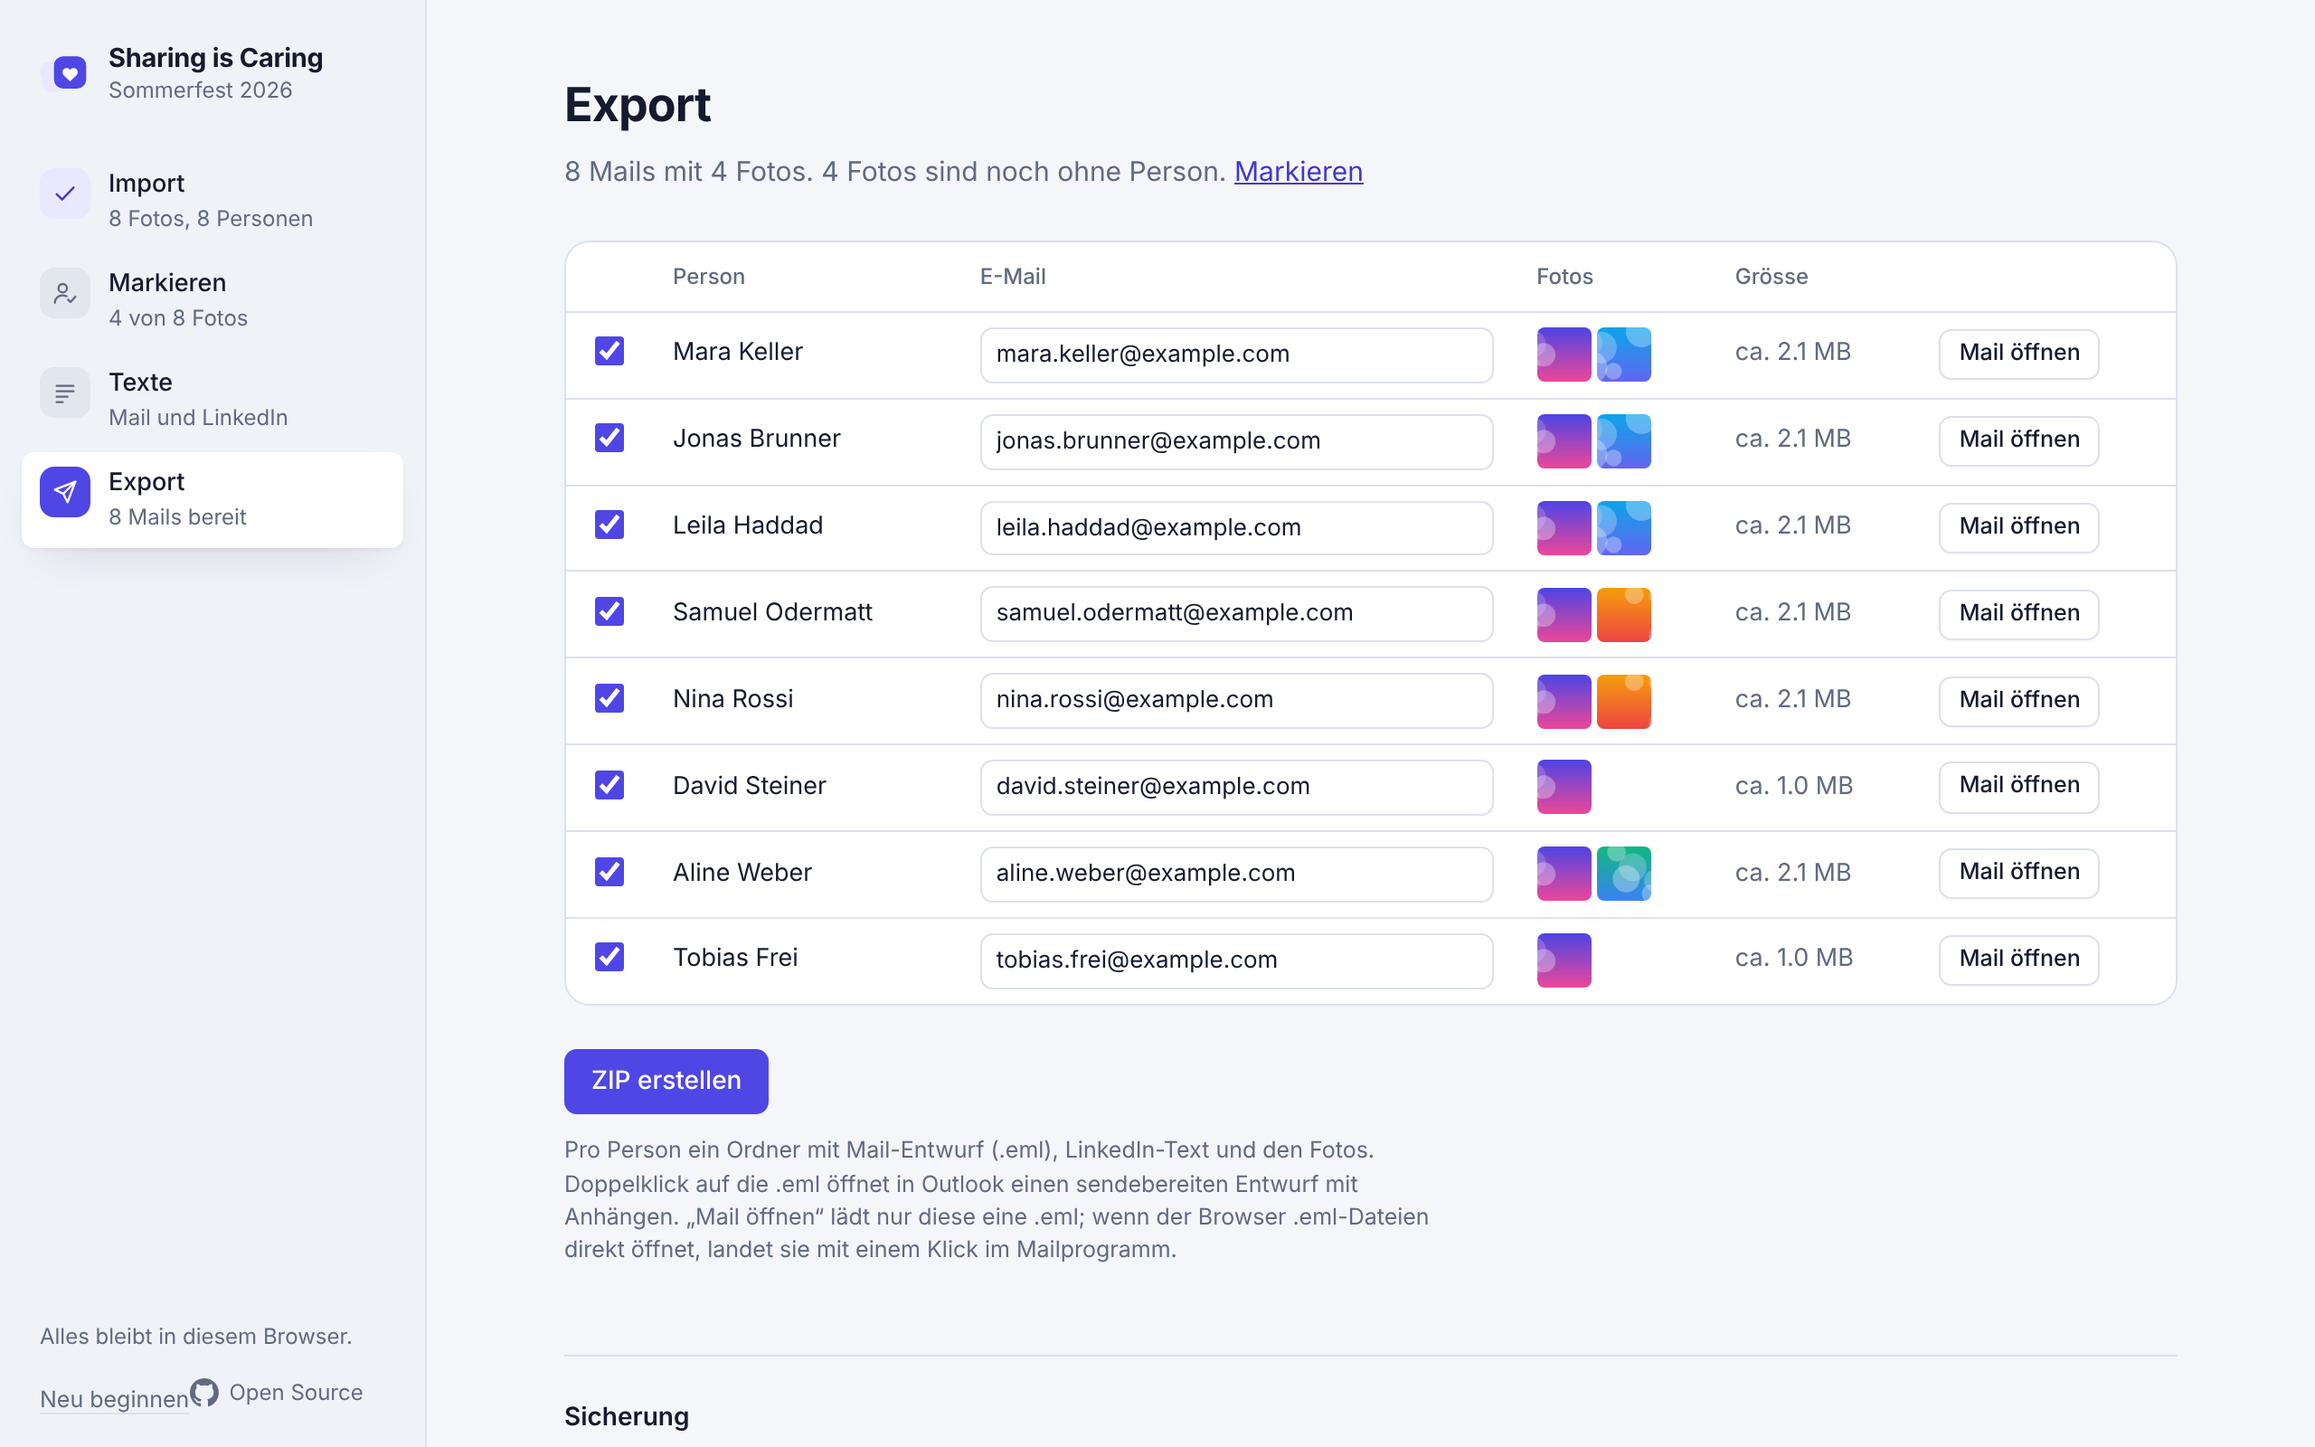
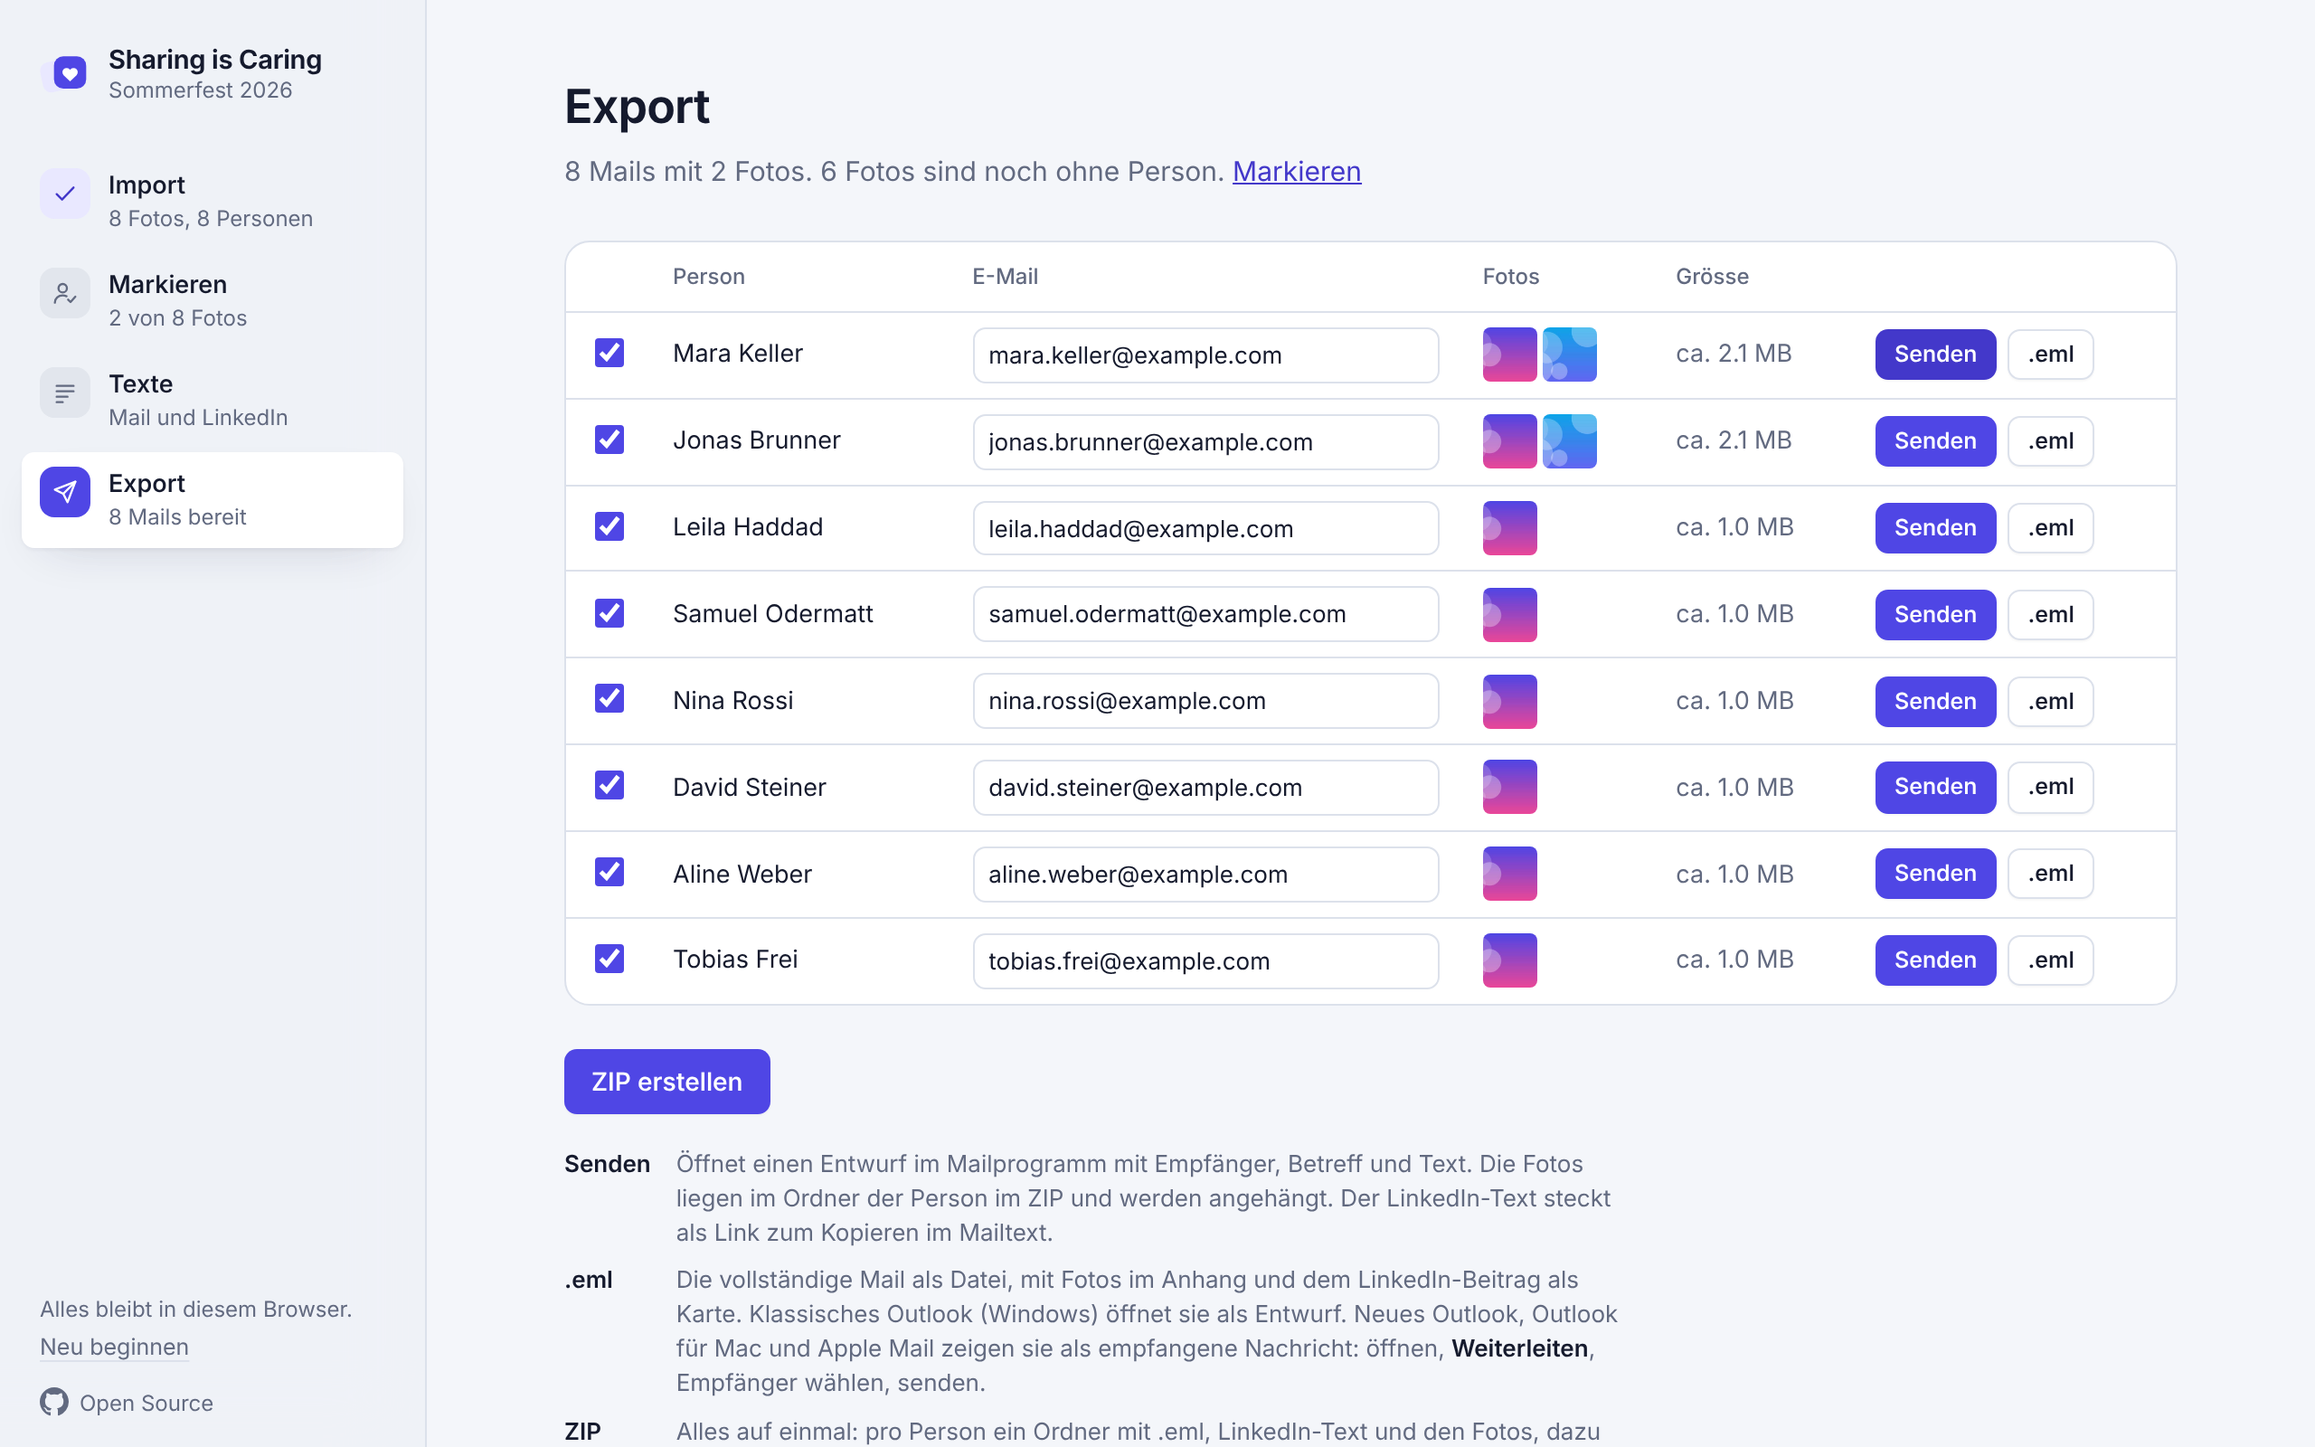
Export: „Senden“ per Share-Sheet oder mailto, .eml ehrlich beschriftet
Opening an .eml as an unsent draft only works in classic Outlook on
Windows; other clients show it as a received message. Add a per-person
"Senden" button that hands photos and text to the system share sheet where
files can be shared (phones, Windows, Safari), and otherwise opens a mailto
draft with recipient, subject and text plus the copy link. If the share
permission expires while photos are being resized, the button re-arms as
"Jetzt senden" and the next click shares immediately.

The .eml button is kept for full fidelity, with an explanation of the
Forward route for New Outlook, Outlook for Mac and Apple Mail. README
gains a sending section; tests cover the mail parts and mailto encoding.

Claude-Session: https://claude.ai/code/session_01JNbLgQqFhZH64C26eKjiof

diff --git a/src/pages/Export.tsx b/src/pages/Export.tsx
@@ -2,6 +2,7 @@ import { useRef, useState } from 'react'
 import { Link } from '@tanstack/react-router'
 import { dataOf, getRecipients, useStore } from '../store'
 import { buildOne, buildZip, download, estimateMB, slug } from '../exporter'
+import { canShareFiles, mailParts, openMailto, shareFiles } from '../send'
 import { Thumb } from '../Thumb'
 
 const validMail = (s: string) => /^[^\s@]+@[^\s@]+\.[^\s@]+$/.test(s)
@@ -19,6 +20,34 @@ export function ExportPage() {
   const [busy, setBusy] = useState<string | null>(null)
   const backup = useRef<HTMLInputElement>(null)
   const abort = useRef<AbortController | null>(null)
+  const shared = useRef(new Map<string, File[]>()) // vorbereitete Fotos pro Person fürs Share-Sheet
+  const [armed, setArmed] = useState<string | null>(null)
+  const share = canShareFiles()
+
+  // Senden: Share-Sheet mit Fotos, sonst mailto. Nach dem Verkleinern kann die Klick-Erlaubnis
+  // abgelaufen sein; dann bleibt der Knopf „Jetzt senden“ und der zweite Klick teilt sofort.
+  async function send(r: (typeof recips)[number]) {
+    const id = r.person.id
+    const d = dataOf(useStore.getState())
+    const parts = mailParts(d, r)
+    setErr('')
+    if (share) {
+      let files = shared.current.get(id)
+      if (!files) {
+        setBusy(id)
+        try { files = await shareFiles(d, r); shared.current.set(id, files) }
+        catch (e) { setErr((e as Error).message); setBusy(null); return }
+        setBusy(null)
+      }
+      try { await navigator.share({ title: parts.subject, text: parts.text, files }); setArmed(null); return }
+      catch (e) {
+        const n = (e as Error).name
+        if (n === 'AbortError') return
+        if (n === 'NotAllowedError') { setArmed(id); return }
+      }
+    }
+    openMailto(parts)
+  }
 
   // Einzelne Mail als .eml: Doppelklick öffnet sie im Mailprogramm als Entwurf
   async function one(id: string) {
@@ -60,7 +89,7 @@ export function ExportPage() {
       {recips.length > 0 && (
         <div className="panel">
           <table className="recips">
-            <thead><tr><th aria-label="Senden" /><th>Person</th><th>E-Mail</th><th>Fotos</th><th>Grösse</th><th aria-label="Einzelne Mail" /></tr></thead>
+            <thead><tr><th aria-label="Senden" /><th>Person</th><th>E-Mail</th><th>Fotos</th><th>Grösse</th><th aria-label="Aktionen" /></tr></thead>
             <tbody>
               {recips.map(({ person: p, photoIds }) => {
                 const off = excluded.includes(p.id)
@@ -72,7 +101,13 @@ export function ExportPage() {
                     <td><input className={`field slim${!off && !validMail(p.email) ? ' invalid' : ''}`} value={p.email} placeholder="E-Mail ergänzen" onChange={(e) => updatePerson(p.id, { email: e.target.value.trim() })} /></td>
                     <td><div className="tiny-thumbs">{photoIds.slice(0, 4).map((id) => <Thumb key={id} id={id} />)}{photoIds.length > 4 && <span className="muted small">+{photoIds.length - 4}</span>}</div></td>
                     <td className={mb > 20 ? 'warn' : 'muted'}>ca. {mb.toFixed(1)} MB</td>
-                    <td><button className="btn slim" disabled={!!busy || !!prog} onClick={() => one(p.id)} title="Nur diese Mail als .eml herunterladen">{busy === p.id ? '…' : 'Mail öffnen'}</button></td>
+                    <td className="actions">
+                      <button className="btn slim primary" disabled={!!busy || !!prog || !validMail(p.email)} onClick={() => send({ person: p, photoIds })}
+                        title={share ? 'Fotos und Text ans Mailprogramm übergeben' : 'Entwurf im Mailprogramm öffnen (Fotos aus dem Ordner anhängen)'}>
+                        {busy === p.id ? '…' : armed === p.id ? 'Jetzt senden' : 'Senden'}
+                      </button>
+                      <button className="btn slim" disabled={!!busy || !!prog} onClick={() => one(p.id)} title="Vollständige Mail als Datei: in klassischem Outlook als Entwurf, sonst öffnen und weiterleiten">.eml</button>
+                    </td>
                   </tr>
                 )
               })}
@@ -100,10 +135,17 @@ export function ExportPage() {
       </div>
       {err && <p className="note error">{err}</p>}
 
-      <p className="muted small explain">
-        Pro Person ein Ordner mit Mail-Entwurf (.eml), LinkedIn-Text und den Fotos. Doppelklick auf die .eml öffnet in Outlook einen sendebereiten Entwurf mit Anhängen.
-        „Mail öffnen“ lädt nur diese eine .eml; wenn der Browser .eml-Dateien direkt öffnet, landet sie mit einem Klick im Mailprogramm.
-      </p>
+      <dl className="how">
+        <dt>Senden</dt>
+        <dd>{share
+          ? 'Übergibt Fotos und Text ans Mailprogramm deiner Wahl. Empfänger und Betreff dort kurz prüfen, dann senden.'
+          : 'Öffnet einen Entwurf im Mailprogramm mit Empfänger, Betreff und Text. Die Fotos liegen im Ordner der Person im ZIP und werden angehängt.'}
+          {' '}Der LinkedIn-Text steckt als Link zum Kopieren im Mailtext.</dd>
+        <dt>.eml</dt>
+        <dd>Die vollständige Mail als Datei, mit Fotos im Anhang und dem LinkedIn-Beitrag als Karte. Klassisches Outlook (Windows) öffnet sie als Entwurf. Neues Outlook, Outlook für Mac und Apple Mail zeigen sie als empfangene Nachricht: öffnen, <b>Weiterleiten</b>, Empfänger wählen, senden.</dd>
+        <dt>ZIP</dt>
+        <dd>Alles auf einmal: pro Person ein Ordner mit .eml, LinkedIn-Text und den Fotos, dazu eine Übersicht als CSV.</dd>
+      </dl>
 
       <section className="backup">
         <h2>Sicherung</h2>

diff --git a/src/send.ts b/src/send.ts
@@ -1,0 +1,45 @@
+// „Senden“ ohne Integration: Share-Sheet mit Fotos, wo es das gibt (Handy, Windows, Safari),
+// sonst ein mailto-Entwurf mit Empfänger, Betreff und Text. Beides ohne Konto, ohne Server.
+import { exportImages } from './db'
+import { attachmentName } from './exporter'
+import { copyUrl } from './html'
+import type { Data, Recipient } from './store'
+import { fill, varsFor } from './templates'
+
+export type MailParts = { to: string; subject: string; text: string }
+
+// Textfassung der Mail plus Link zur Kopierseite, weil Share und mailto kein HTML tragen
+export function mailParts(d: Data, { person: p, photoIds }: Recipient, copyHref = ''): MailParts {
+  const v = varsFor(p, photoIds.length, d.settings, d.tpl.post)
+  const href = copyHref || copyUrl(v.post)
+  const body = fill(d.tpl.body, v).trim()
+  return { to: p.email, subject: fill(d.tpl.subject, v), text: `${body}\n\nLinkedIn-Text zum Kopieren: ${href}` }
+}
+
+// CRLF und encodeURIComponent: so lesen Outlook, Apple Mail und Gmail die Zeilenumbrüche korrekt
+export const mailtoUrl = ({ to, subject, text }: MailParts) =>
+  `mailto:${to}?subject=${encodeURIComponent(subject)}&body=${encodeURIComponent(text.replace(/\r?\n/g, '\r\n'))}`
+
+export const canShareFiles = () => {
+  try {
+    return typeof navigator.share === 'function' && !!navigator.canShare?.({ files: [new File([new Uint8Array(1)], 'x.jpg', { type: 'image/jpeg' })] })
+  } catch { return false }
+}
+
+export async function shareFiles(d: Data, { person: p, photoIds }: Recipient): Promise<File[]> {
+  const out: File[] = []
+  for (let k = 0; k < photoIds.length; k++) {
+    const [bytes] = await exportImages(photoIds[k], [{ maxEdge: d.settings.maxEdge, q: 0.86 }], k)
+    out.push(new File([bytes as BlobPart], attachmentName(d, p, k), { type: 'image/jpeg' }))
+  }
+  return out
+}
+
+export function openMailto(parts: MailParts) {
+  const a = document.createElement('a')
+  a.href = mailtoUrl(parts)
+  a.rel = 'noopener'
+  document.body.append(a)
+  a.click()
+  a.remove()
+}

diff --git a/src/send.test.ts b/src/send.test.ts
@@ -1,0 +1,32 @@
+import { describe, expect, it } from 'vitest'
+import { mailParts, mailtoUrl } from './send'
+import { DEFAULT_SETTINGS, DEFAULT_TPL } from './templates'
+import type { Data } from './store'
+
+const d: Data = {
+  photos: [], people: [], tags: {}, excluded: [],
+  settings: { ...DEFAULT_SETTINGS, event: 'Sommerfest', senderName: 'Mara Keller' },
+  tpl: { ...DEFAULT_TPL, body: 'Hallo {vorname}\n\n---\n{post}\n---\n\nGruss, {absender}' },
+}
+const r = { person: { id: '1', first: 'Jonas', last: 'Brunner', email: 'jonas@example.com' }, photoIds: ['a', 'b'] }
+
+describe('mailParts', () => {
+  it('fills recipient, subject and a plain-text body with the copy link', () => {
+    const m = mailParts(d, r, 'https://x.test/#/post?t=abc')
+    expect(m.to).toBe('jonas@example.com')
+    expect(m.subject).toBe('Ihre Fotos vom Sommerfest')
+    expect(m.text).toContain('Hallo Jonas')
+    expect(m.text).toContain('Beim Sommerfest ging es um')
+    expect(m.text).toContain('Gruss, Mara Keller')
+    expect(m.text.endsWith('LinkedIn-Text zum Kopieren: https://x.test/#/post?t=abc')).toBe(true)
+  })
+})
+
+describe('mailtoUrl', () => {
+  it('encodes subject and body with CRLF line breaks', () => {
+    const u = mailtoUrl({ to: 'a@b.ch', subject: 'Grüsse & Co', text: 'Zeile 1\nZeile 2' })
+    expect(u.startsWith('mailto:a@b.ch?subject=Gr%C3%BCsse%20%26%20Co&body=')).toBe(true)
+    expect(u).toContain('Zeile%201%0D%0AZeile%202')
+    expect(decodeURIComponent(u.split('&body=')[1])).toBe('Zeile 1\r\nZeile 2')
+  })
+})

diff --git a/src/exporter.ts b/src/exporter.ts
@@ -2,7 +2,7 @@ import { strToU8, zip, type Zippable } from 'fflate'
 import { POOL, exportImages } from './db'
 import { buildEml } from './eml'
 import { buildHtml, copyUrl, postCard } from './html'
-import { getRecipients, type Data, type Recipient } from './store'
+import { getRecipients, type Data, type Person, type Recipient } from './store'
 import { fill, varsFor } from './templates'
 
 export const slug = (s: string) =>
@@ -42,12 +42,11 @@ async function loadImages(ids: string[], maxEdge: number, onProgress?: (f: numbe
 }
 
 // Eine Mail: .eml (Text + HTML-Karte + Vorschaubilder + Anhänge), LinkedIn-Text, Anhänge
+export const attachmentName = (d: Data, p: Person, k: number) =>
+  `${slug(d.settings.event)}_${slug(p.first || p.last)}_${String(k + 1).padStart(2, '0')}.jpg`
+
 function buildMail(d: Data, { person: p, photoIds }: Recipient, imgs: Imgs) {
-  const ev = slug(d.settings.event)
-  const atts = photoIds.map((id, k) => ({
-    name: `${ev}_${slug(p.first || p.last)}_${String(k + 1).padStart(2, '0')}.jpg`,
-    data: imgs.get(id)!.full,
-  }))
+  const atts = photoIds.map((id, k) => ({ name: attachmentName(d, p, k), data: imgs.get(id)!.full }))
   const inline = photoIds.map((id, k) => ({ cid: `foto${k + 1}@sharingiscaring`, data: imgs.get(id)!.thumb }))
   const v = varsFor(p, atts.length, d.settings, d.tpl.post)
   const card = postCard({

diff --git a/src/styles.css b/src/styles.css
@@ -182,6 +182,12 @@ kbd { font-family: var(--font); font-size: 11px; min-width: 20px; display: inlin
 .export-row { display: flex; align-items: center; gap: 18px; margin: 24px 0 8px; min-height: 36px; }
 .ok { font-size: 13.5px; color: var(--accent-ink); display: flex; gap: 10px; align-items: baseline; }
 .explain { max-width: 62ch; }
+.recips td.actions { white-space: nowrap; }
+.recips td.actions .btn + .btn { margin-left: 6px; }
+.how { max-width: 72ch; margin: 18px 0 0; display: grid; grid-template-columns: auto 1fr; gap: 8px 14px; font-size: 13px; color: var(--muted); }
+.how dt { font-weight: 600; color: var(--ink); }
+.how dd { margin: 0; }
+.how b { color: var(--ink); font-weight: 600; }
 .backup { margin-top: 48px; padding-top: 24px; border-top: 1px solid var(--line); }
 .backup .row { display: flex; gap: 8px; margin-top: 10px; }
 

diff --git a/README.md b/README.md
@@ -39,12 +39,22 @@ of everyone and give up. Sending each person their own pictures by hand takes an
 4. **Export** a ZIP with one folder per person, or one mail at a time. Each folder has an Outlook-ready
    draft (`.eml`) with the photos attached, the post as a text file, and the resized images.
 
-Double-click a draft and Outlook opens it as an unsent mail, recipient and attachments in place.
-Read it, maybe tweak it, hit send. No mass mailing, no automation you can't see.
+Sending stays manual on purpose: one person at a time, you read, you send. No mass mailing, no automation you can't see.
+
+### Sending
+
+There is no universal way to open a draft with attachments in every mail client without an OAuth integration,
+so the Export page offers three honest paths:
+
+| Path | What you get | Where |
+|---|---|---|
+| **Senden** | The system share sheet with the photos and the text, pick your mail app | Phones, Windows, Safari on Mac |
+| **Senden** (fallback) | A `mailto:` draft with recipient, subject and text; photos are in that person's ZIP folder | Everywhere else |
+| **.eml** | The full mail: HTML post card, inline previews, photos attached | Classic Outlook on Windows opens it as a draft. New Outlook, Outlook for Mac and Apple Mail show it as a received message: open it, **Forward**, pick the recipient |
 
 The mail itself is HTML. The LinkedIn suggestion is rendered as a post card with the person's own photos
 as the media, and a **"Text kopieren"** button that opens a small page with a real copy-to-clipboard button.
-Plain-text clients get a plain-text version of the same mail.
+Plain-text clients, the share sheet and the mailto draft get a text version with the same copy link.
 
 ## Privacy
 
